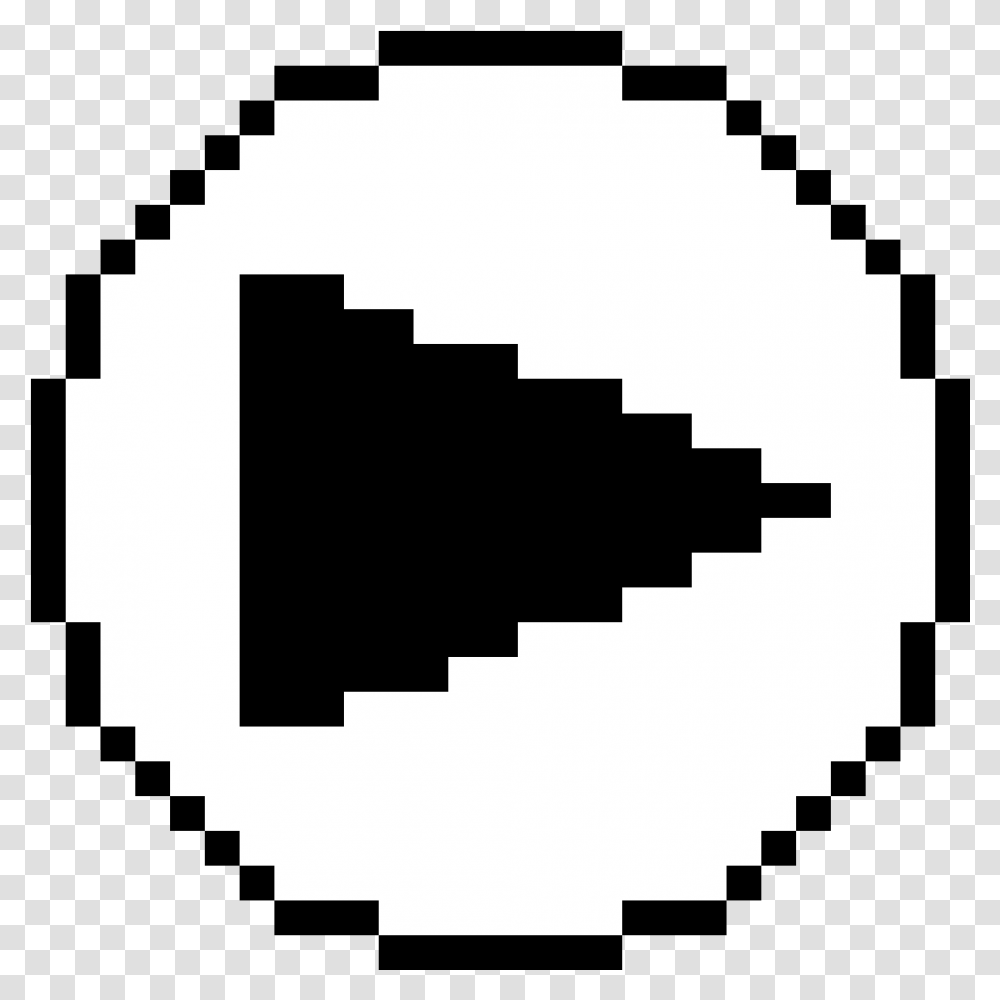
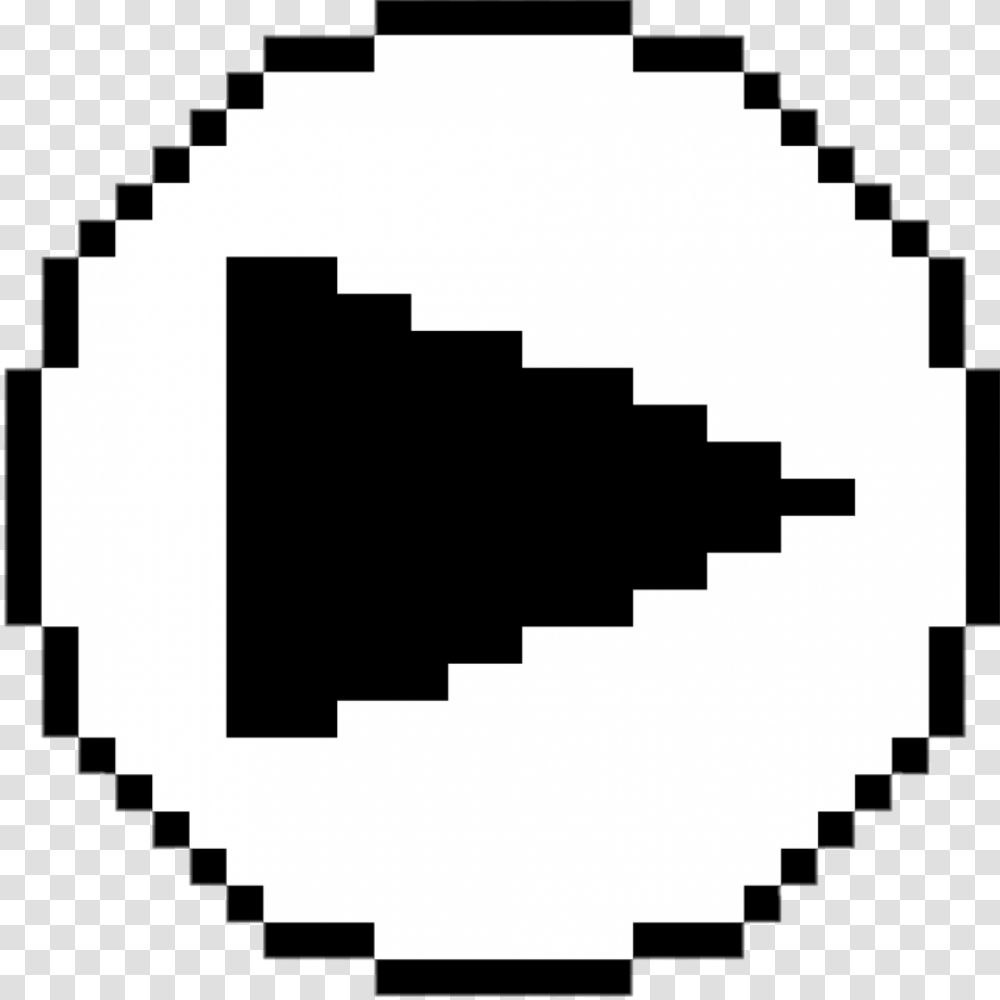
fixed play button and renamed solution

diff --git a/Game1.cs b/Game1.cs
@@ -105,7 +105,7 @@ namespace Trick_tests
 
             //titlescreen
             titleSize = titleFont.MeasureString("Kick, Push");
-            startButton = new Button(playButtonTexture, new Rectangle(_graphics.PreferredBackBufferWidth / 2 - 100, _graphics.PreferredBackBufferHeight / 2, 200, 200));
+            startButton = new Button(playButtonTexture, new Rectangle(_graphics.PreferredBackBufferWidth / 2 - 100, _graphics.PreferredBackBufferHeight / 2 - 50, 200, 200));
 
             //background
             backgroundObjects.Add(new BackgroundObject(backgroundTextures[0], new Rectangle(200, 230, 60, 60), speedLevel1));
@@ -136,7 +136,7 @@ namespace Trick_tests
 
             //title
             titleFont = Content.Load<SpriteFont>("Title");
-            playButtonTexture = Content.Load<Texture2D>("playbutton");
+            playButtonTexture = Content.Load<Texture2D>("playbutton1");
 
             //street
             street = Content.Load<Texture2D>("ROAD 2 (bigger)");
